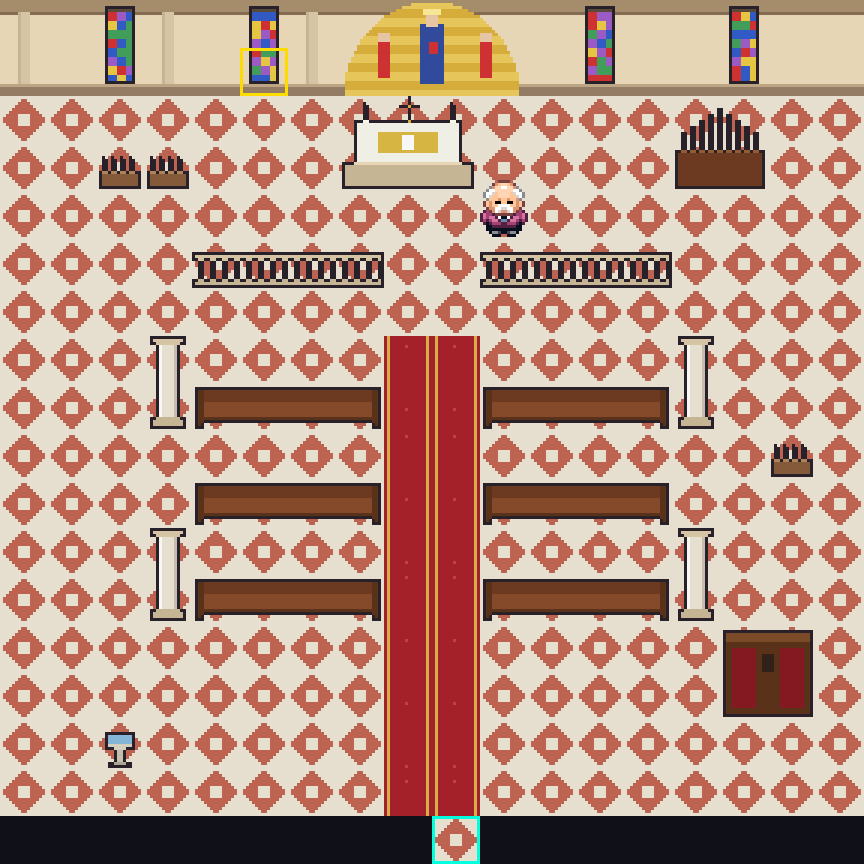
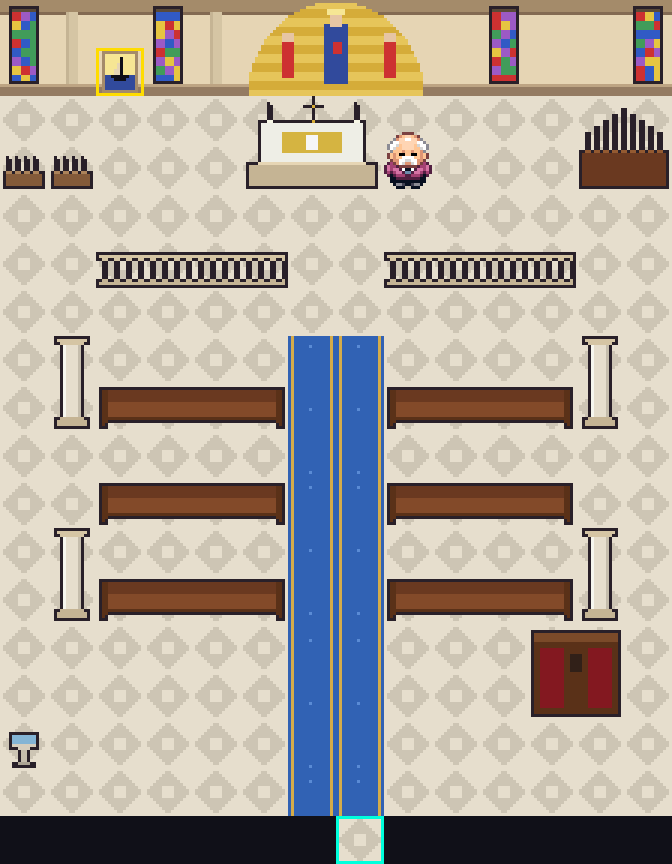
Bozza Lotto 4 (2): Lido con argine, uscite pulite e nomi veri; chiesa rifatta
Claude-Session: https://claude.ai/code/session_019NeVR98VfDxiGzodkXqoY7

diff --git a/bozze/chiesa_lido.py b/bozze/chiesa_lido.py
@@ -1,51 +1,115 @@
-"""Bozza Lotto 4: interno della chiesa di Lido di Savio (mappa libera 24.75, nessuna uscita la raggiunge oggi).
+"""Bozza Lotto 4 (2): interno della chiesa di Lido di Savio (mappa libera 24.75, nessuna uscita la raggiunge oggi).
 
-Stesso tileset della chiesa di Cesena (34.37, layout 670): la navata e' piu' corta (righe 0-8 e 13-21 di Cesena,
-18x18): altare, organo, balaustra, quattro file di banchi, acquasantiera e confessionale; uscita in (9,17) verso
-la porta della chiesa a Lido (8,38).
-Evento: il PARROCO (in 10,4) racconta la benedizione del mare e la prima volta regala un MAREAROMA (flag nuova);
-alla finestra (5,1) l'ex voto dei pescatori del Savio.
+Pezzi della chiesa di Cesena (34.37), ma un'altra chiesa: navata raccolta 14x18 con l'abside al centro, pavimento di
+pietra chiara (disegnato al posto dei rombi rossi), tappeto blu mare con il bordo d'oro (ricolorato), tre file di
+banchi fra le colonne, organo, acquasantiera, confessionale; al muro un quadro con una barca a vela (ex voto dei
+pescatori, disegnato a mano). Stesse palette della chiesa di Cesena: nessuna palette nuova.
+Evento: il PARROCO (in 8,3) racconta la benedizione del mare e la prima volta regala un MAREAROMA (flag nuova);
+il quadro (2,1) si legge. Uscita in (7,17) verso la porta della chiesa a Lido.
 Uso: python3 bozze/chiesa_lido.py ROM_071 CARTELLA
 """
 import sys, struct
 from pathlib import Path
 sys.path[:0] = [str(Path(__file__).resolve().parent.parent / 'strumenti_rom')]
 import numpy as np
-import romlib
+import tela, romlib
 
 CESENA_CHIESA = (34, 37)
-RIGHE = list(range(0, 9)) + list(range(13, 22))
-PARROCO = (10, 4, 29)
-USCITA = (9, 17)
-EX_VOTO = (5, 1)
+SEC_C = 0x18d89e4
+PRIM = 0x55e8c0
+COLONNE = list(range(2, 16))                                  # 14 colonne, navata centrata (tappeto in 6-7)
+RIGHE = list(range(0, 13)) + list(range(17, 22))              # 18 righe
+PARROCO = (8, 3, 29)
+USCITA = (7, 17)
+QUADRO = (2, 1)
+PAVIMENTO = 0x214
 TESTI = dict(
     parroco="PARROCO: Ogni estate benediciamo il mare e le barche dei pescatori del SAVIO.\n\n"
             "Prendi questo MAREAROMA: è l'incenso della festa. Ai POKéMON d'acqua piace!",
     parroco_dopo="PARROCO: Che il mare ti sia sempre calmo, ovunque tu vada!",
-    ex_voto="Una barca dipinta: è l'ex voto dei pescatori del SAVIO, tornati a casa dopo una burrasca.")
+    quadro="Una barca a vela dipinta: è l'ex voto dei pescatori del SAVIO, tornati a casa dopo una burrasca.")
+
+
+def _px(raw, idx):
+    a = np.frombuffer(bytes(raw[idx * 32:idx * 32 + 32]), np.uint8)
+    p = np.empty(64, np.uint8); p[::2] = a & 15; p[1::2] = a >> 4
+    return p.reshape(8, 8)
+
+
+def _raw(t):
+    t = np.asarray(t, np.uint8).reshape(64)
+    return bytes(int(t[i]) | (int(t[i + 1]) << 4) for i in range(0, 64, 2))
+
+
+def pal(d, k):
+    v = struct.unpack('<16H', tela.Tileset(d, SEC_C).palette(k))
+    return np.array([[(c & 31) * 8, ((c >> 5) & 31) * 8, ((c >> 10) & 31) * 8] for c in v], float)
+
+
+def c15(r, g, b): return (r >> 3) | ((g >> 3) << 5) | ((b >> 3) << 10)
+
+
+# colori nuovi: pavimento (rombi rossi della palette 10 -> pietra chiara), tappeto (palette 11, rosso -> blu mare)
+COLORI = {(10, 9): c15(200, 192, 176), (11, 7): c15(200, 192, 176), (12, 3): c15(200, 192, 176),   # rombi
+          (11, 4): c15(48, 96, 176), (11, 6): c15(88, 136, 208)}                                     # tappeto blu
+
+
+class UnioneChiesa(tela.Unione):
+    """Unione dalla chiesa di Cesena, stesse palette agli stessi posti, con i colori di pavimento e tappeto cambiati."""
+
+    def __init__(self, d):
+        super().__init__(d, PRIM)
+        for k in range(6, 13): self.slot[(SEC_C, k)] = k
+
+    def blob(self):
+        tiles, pals, meta, attrs = super().blob()
+        pals = bytearray(pals)
+        for (k, i), c in COLORI.items(): struct.pack_into('<H', pals, k * 32 + i * 2, c)
+        return tiles, bytes(pals), meta, attrs
+
+    def quadro(self):
+        """Quadro con la barca a vela (palette 9: 1 scuro, 2 blu, 4 oro scuro, 9 legno, 10 chiaro)."""
+        a = np.zeros((16, 16), int)
+        a[1:15, 2:14] = 4
+        a[2:14, 3:13] = 10
+        a[9:14, 3:13] = 2
+        for y in range(3, 9):
+            for x in range(8 - (y - 3) // 2, 8): a[y, x] = 10 if False else 9
+        a[3:10, 8] = 1
+        a[9, 5:11] = 1; a[10, 6:10] = 1
+        return a
 
 
 def chiesa(d):
     rom = romlib.Rom(bytes(d)); m = rom.map(*CESENA_CHIESA); a = rom.blocks(m)
-    b = a[RIGHE, :].copy()
-    return m, b
+    b = a[np.ix_(RIGHE, COLONNE)].copy()
+    b[13:15, 13] = a[13, 14]                                   # via la meta' del confessionale tagliata
+    b[13:15, 11:13] = a[17:19, 15:17]                          # confessionale intero, contro il muro destro
+    return b
+
+
+def costruisci(d):
+    b = chiesa(d); U = UnioneChiesa(d)
+    vals = [(int(v) & 0xfc00) | U.metatile(SEC_C, int(v) & 1023) for v in b.flat]
+    # quadro: strato alto disegnato sul muro (palette 9)
+    W = b.shape[1]; k = QUADRO[1] * W + QUADRO[0]
+    base = vals[k] & 1023; refs = list(U.meta[base - 512][0])
+    al = U.quadro()
+    for q in range(4):
+        t = al[(q // 2) * 8:(q // 2) * 8 + 8, (q % 2) * 8:(q % 2) * 8 + 8]
+        refs[4 + q] = (U._tile(_raw(t)) | (9 << 12)) if t.any() else 0
+    vals[k] = (vals[k] & 0xfc00) | U.metatile_nuovo(refs, U.meta[base - 512][1])
+    return U, vals, b.shape[1], b.shape[0]
 
 
 if __name__ == '__main__':
     import sprite
     from PIL import ImageDraw
     d = open(sys.argv[1], 'rb').read(); out = Path(sys.argv[2]); out.mkdir(parents=True, exist_ok=True)
-    m, b = chiesa(d)
-    r2 = romlib.Rom(bytes(d)); mm = dict(r2.map(*CESENA_CHIESA))
-    mt = r2.renderer(mm); H, W = b.shape
-    img = np.zeros((H * 16, W * 16, 3), np.uint8)
-    for y in range(H):
-        for x in range(W): img[y * 16:y * 16 + 16, x * 16:x * 16 + 16] = mt(int(b[y, x]) & 1023)
-    from PIL import Image
-    im = Image.fromarray(img)
+    U, vals, W, H = costruisci(d)
+    im = tela.anteprima(d, U, vals, W, H, 1)
     sprite.disegna(d, im, [PARROCO], 1)
     im = im.resize((W * 48, H * 48), 0); dr = ImageDraw.Draw(im)
-    for (x, y), c in ((USCITA, (0, 255, 220)), (EX_VOTO, (255, 220, 0))):
+    for (x, y), c in ((USCITA, (0, 255, 220)), (QUADRO, (255, 220, 0))):
         dr.rectangle((x * 48, y * 48, x * 48 + 47, y * 48 + 47), outline=c, width=3)
-    im.save(out / 'chiesa_lido.png'); print(W, H)
-    for k, t in TESTI.items(): print(k, t)
+    im.save(out / 'chiesa_lido.png'); print(W, H, U.stato())

diff --git a/bozze/lido.py b/bozze/lido.py
@@ -56,6 +56,27 @@ def disegna(d):
     M.riempi(28, 0, 3, 3, M.erba)                      # il capanno di (28,0) si sposta verso la foce (33,0)
     for x in (44, 48): M.timbro(PONTILE, x, 5)
     M.cartello(41, 2, "FOCE DEL SAVIO\nI capanni da pesca calano le\nreti quando sale la marea.")
+    # ---------------- argine del Savio: muretto bianco sulla riva sud, prato pulito sulla riva nord
+    CANNE = {0x20f, 0x210, 0x211, 0x212}
+    for x in range(56):
+        if (int(o[2, x]) & 1023) in CANNE: M.a[2, x] = M.erba
+    M.togli_bg = [(16, 2)]                               # il secondo cartello della riva nord (doppione della foce)
+    M.a[2, 16] = M.erba
+    for x in range(42):
+        if x in (19, 20, 35, 36, 22): continue           # ponte, pontile, cartello
+        M.a[7, x] = 0x3000 | 0x0400 | 0x3e
+    for x in (19, 20, 35, 36): M.a[7, x] = int(o[7, 17])  # sabbia ai piedi del ponte e del pontile
+    # ---------------- uscite: il viale e il sentiero arrivano al bordo della mappa fra i pini
+    M.riempi(14, 41, 10, 3, M.erba)
+    M.a[39:41, 16:24] = o[30:32, 16:24]                  # incrocio come quello del viale a meta' paese: niente striscione
+    for y in (41, 42, 43): M.a[y, 18:22] = o[38, 18:22]  # il viale scende fino al bordo fra due prati
+    M.a[41:44, 16:18] = M.erba; M.a[41:44, 22:24] = M.erba
+    for x in (14, 16, 22): M.timbro(PINO, x, 41) if x != 16 else None
+    M.timbro((16, 42, 1, 2), 16, 42)
+    M.cartello(17, 41, "PINETA DEL SAVIO\nIl viale continua fra i pini\nfino a CERVIA.")
+    M.uscite = [(x, 43) for x in range(18, 22)] + [(x, 43) for x in range(46, 50)]
+    M.riempi(44, 40, 8, 4, M.sabbia)                    # via il casello COSTIERO: la spiaggia arriva al bordo
+    M.cartello(45, 41, "SENTIERO COSTIERO\nLungo la spiaggia fino a\nCERVIA.")
     # ---------------- Viale Romagna (x 18-20): alberi e lampioni ai lati, bancarelle
     for y in (11, 15, 24, 33):
         for x in (17, 21):
@@ -78,7 +99,7 @@ def disegna(d):
     M.a[10:18, 22:29] = a2[10:18, 22:29]
     # ---------------- spiaggia: tre bagni
     M.riempi(42, 21, 10, 20, M.sabbia)
-    for y0, cab, nome in ((22, CABINA_R, 'BAGNO ADRIATICO'), (28, CABINA_A, 'BAGNO SAVIO'), (34, CABINA_V, 'BAGNO PINETA')):
+    for y0, cab, nome in ((22, CABINA_R, 'BAGNO LIDO'), (28, CABINA_A, 'BAGNO MILANO'), (34, CABINA_V, 'BAGNO 340')):
         for y in (y0, y0 + 3): M.timbro(cab, 42, y)
         M.cartello(43, y0, "%s\nLettini e ombrelloni in fila,\ncome in tutta la riviera." % nome)
         for y in (y0, y0 + 3):
@@ -92,7 +113,8 @@ def disegna(d):
         if (M.a[y:y + 2, 39] == M.erba).all(): M.timbro(LAMPIONE, 39, y)
     # porte chiuse con un nome: negozi del viale
     M.porte = {(13, 35): "BAZAR DEL LIDO\nSecchielli, palette e salvagenti.\nChiuso per la pausa pranzo.",
-               (33, 35): "PIADINERIA\nLa piastra e' ancora fredda:\napre stasera!"}
+               (16, 35): "GELATERIA PURO & BIO\nGelato artigianale e biologico.",
+               (33, 35): "PIANETA PIADA\nLa piastra e' ancora fredda:\napre stasera!"}
     return M
 
 
@@ -109,6 +131,8 @@ if __name__ == '__main__':
     im = im.resize((im.width * 2, im.height * 2), 0); dr = ImageDraw.Draw(im)
     for x, y, _ in M.cartelli: dr.rectangle((x * 32, y * 32, x * 32 + 31, y * 32 + 31), outline=(255, 220, 0), width=2)
     dr.rectangle((8 * 32, 38 * 32, 8 * 32 + 31, 38 * 32 + 31), outline=(0, 255, 220), width=2)
+    for x, y in M.uscite: dr.rectangle((x * 32, y * 32, x * 32 + 31, y * 32 + 31), outline=(0, 255, 220), width=2)
+    for (x, y) in M.porte: dr.rectangle((x * 32 + 4, y * 32 + 4, x * 32 + 27, y * 32 + 27), outline=(255, 120, 0), width=2)
     im.save(out / 'lido_nuova.png')
     romlib.Rom(bytes(d)).render(romlib.Rom(bytes(d)).map(*LIDO), events=False, scale=2).save(out / 'lido_oggi.png')
     print('cartelli', len(M.cartelli))
